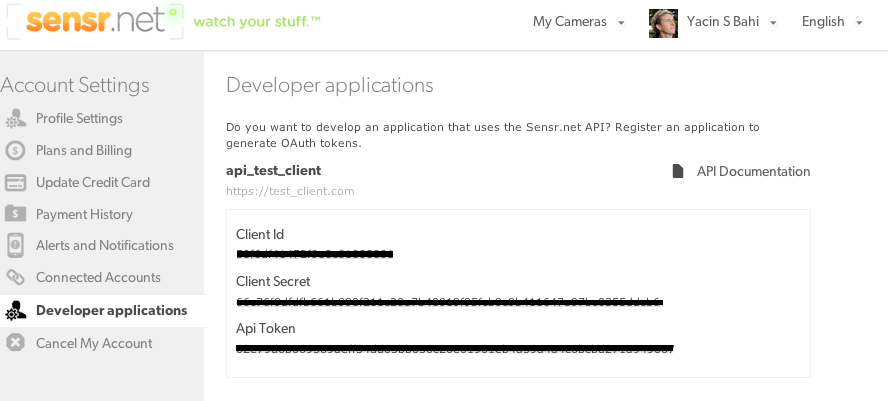
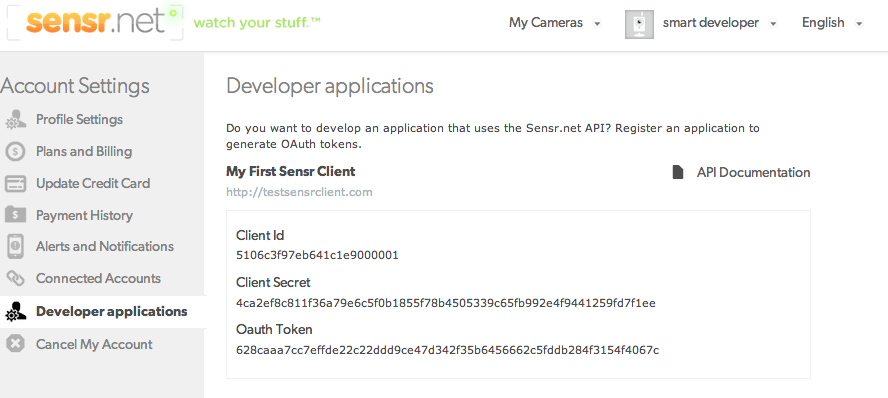
introducing the api sandbox adding curl example

diff --git a/index.html b/index.html
@@ -1,94 +1,126 @@
 <!DOCTYPE html>
 <html>
 
-  <head>
-    <meta charset='utf-8' />
-    <meta http-equiv="X-UA-Compatible" content="chrome=1" />
-    <meta name="description" content="Sensrapi-tutorials : Tutorials for sensrapi" />
+<head>
+  <meta charset='utf-8' />
+  <meta http-equiv="X-UA-Compatible" content="chrome=1" />
+  <meta name="description" content="Sensrapi-tutorials : Tutorials for sensrapi" />
 
-    <link rel="stylesheet" type="text/css" media="screen" href="stylesheets/stylesheet.css">
+  <link rel="stylesheet" type="text/css" media="screen" href="stylesheets/stylesheet.css">
 
-    <title>Sensrapi-tutorials</title>
-  </head>
+  <title>Sensrapi-tutorials</title>
+</head>
 
-  <body>
+<body>
 
-    <!-- HEADER -->
-    <div id="header_wrap" class="outer">
-        <header class="inner">
-          <a id="forkme_banner" href="https://github.com/yacc/sensrapi-tutorials">View on GitHub</a>
+  <!-- HEADER -->
+  <div id="header_wrap" class="outer">
+    <header class="inner">
+      <a id="forkme_banner" href="https://github.com/yacc/sensrapi-tutorials">View on GitHub</a>
+      <h1 id="project_title">Sensr.net Api Tutorials</h1>
+      <h2 id="project_tagline">Tutorials and Examples for Sensr.net API</h2>
+      <section id="downloads">
+        <a class="zip_download_link" href="https://github.com/yacc/sensrapi-tutorials/archive/master.zip">Download this project as a .zip file</a>
+        <a class="tar_download_link" href="https://github.com/yacc/sensrapi-tutorials/archive/master.tar.gz">Download this project as a tar.gz file</a>
+      </section>
+    </header>
+  </div>
 
-          <h1 id="project_title">Sensr.net Api Tutorials</h1>
-          <h2 id="project_tagline">Tutorials and Example for Sensr.net Ruby bindings</h2>
+  <!-- MAIN CONTENT -->
+  <div id="main_content_wrap" class="outer">
+    <section id="main_content" class="inner">
+      <h3>Welcome to the Sensr.net Apis</h3>
 
-            <section id="downloads">
-              <a class="zip_download_link" href="https://github.com/yacc/sensrapi-tutorials/archive/master.zip">Download this project as a .zip file</a>
-              <a class="tar_download_link" href="https://github.com/yacc/sensrapi-tutorials/archive/master.tar.gz">Download this project as a tar.gz file</a>
-            </section>
-        </header>
-    </div>
+      <p>The Sensr.net APIs allows you to programmatically access content from cameras on <a href="https://sensr.net">Sensr.net</a>. For example, with the API you can write a ruby program to build a time-lapse from your camera images, or extract motion trends across several weeks. The first paragraph consists of a quick start guide. The second introduces a couple of examples and tries to explain the guiding principles behind the Apis and how to better leverage them.</p>
 
-    <!-- MAIN CONTENT -->
-    <div id="main_content_wrap" class="outer">
-      <section id="main_content" class="inner">
-        <h3>Welcome to the Sensr.net Apis</h3>
+      <p>We always welcome feedback, please send your feedback regarding our Apis to developers At sensr.net</p>
 
-<p>The Sensr.net APIs allows you to programmatically access content from cameras on <a href="https://sensr.net">Sensr.net</a>. For example, with the API you can write a ruby program to build a time-lapse from your camera images, or extract motion trends across several weeks. The first paragraph consists of a quick start guide. The second introduces a couple of example scripts and tries to explain the guiding principles behind the Apis and how to better leverage them.</p>
+      <h1>Overview</h1>
+      The Sensr API uses the <a href="http://tools.ietf.org/html/draft-ietf-oauth-v2-31">OAuth 2.0 Protocol</a> for authentication and authorization. 
+      So the first thing we'll ask to do is to get an Sensr.net OAuth2 token. 
+      The Sensr.net API is restful and mostly self documented. The API cross-links with URL between different resources and the top level API entry point <em>https://api.sensr.net/u/v3/resources.json</em> always documents all resources available to the developer. The API returns JSON and partial ruby binding are provided as a gem.
 
-<p>We always welcome feedback, please send your feedback regarding our Apis to developers At sensr.net</p>
+      <h1>Quick Start Guide</h1>
+      <p>This is a 5 minute guide that should get you started and running quickly. You will need an account on <a href="https://sensr.net">Sensr.net</a> to get access to your Api keys. You will also need to have the curl command line tool installed in your environment.</p>
 
-<h3>Quick start guide</h3>
+      <h3><a name="get_oauth_token">Get an Oauth token</a></h3>  
+      <p>First, login to your sensr.net account and navigate to https://sensr.net/account/applications.
+        <img src="images/registrering_a_new_api_client.png" alt="New Api Client Registration">
 
-<p>This is a three step guide that should get you started and running (in ruby) quickly. You will need an account on <a href="https://sensr.net">Sensr.net</a> to get access to your Api keys.</p>
+        Then create a new api client, you will be asked to fill out a form with the following elements:
+        <table border="0" cellspacing="5" cellpadding="5">
+          <tr><th>Field</th><th>What is it?</th><th>Example</th></tr>
+          <tr><td>Application (client) Name</td><td>The name of you application or client</td><td>MyTestClient</td></tr>
+          <tr><td>Main URL</td><td>The link to your site</td><td>http://test_client.com</td></tr>
+          <tr><td>Callback URL</td><td>The url your users are redirected to after login in</td><td>http://test_client.com/welcome</td></tr>
+        </table>
+      </p>
+      <p>Assuming everything went well, you should now be seeing you api client ID and client secret, as well as one API token.
+        <img src="images/a_new_client_id_secret_pair.png" alt="A New Api Client Keys" >
+      </p>
 
-<h4>Install the sensr.net gem</h4>
-Run the following commands to install the sensr.net gem. Make sure you install the multi_json gem as well. 
+      <h3>Test the API with Curl</h3>
+      <p> If you have the command line tool <em>curl</em> installed, it's easy to get a first taste of the API. If you don't jump to the next section that introduces the <a href="#api_sanbox">API sandbox</a>. 
+        Grab the OAuth token from your <em>Developer Applications</em> tab. 
+        Now start a terminal and run the following command (make sure to replace the token by a valid one):
+        <pre><code>
+curl -i -X GET -H "Authorization: OAuth MY_OAUTH_TOKEN" \
+https://api.sensr.net/u/v3/cameras/owned.json
+        </code></pre>        
+      </p> 
+      <p>Make sure you use your Aouth token from your tab (not the one displayed in the example). You should get a json document in response. The API call to <code>cameras/owned.json</code> returns an array of cameras you own. Assuming you have cameras (active or inactive) on your account, you should be getting something like this:
+        <img src="images/example_cameras_owned_json.png" alt="Example cameras/owned.json" >
+      </p>
 
-<pre><code>
-  gem install sensr
-  gem install multi_json
-</code></pre>
+      <h1><a name="api_sanbox">The API sandbox</a></h1>
+      <p>
+      At sensr.net, we use the excellent API documentation tool <a href="https://github.com/wordnik/swagger-core/wiki">Swagger</a>.
+      Swagger is a specification and framework implementation for describing, producing, consuming, and visualizing RESTful web services. The easiest way to access your API sandbox, is to head over to you <a href="https://sensr.net/account/applications">developers applications</a> page. Look for a <em>API Documentation</em> link on the upper corner of the web page.   
+      <img src="images/the_api_sandbox.png" alt="API Sandbox" >
+      </p>
+      
+      <h1>Ruby Bindings</h1>
+      
+      <p>This is a three step guide that should get you started and running (in ruby) quickly. You will need an account on <a href="https://sensr.net">Sensr.net</a> to get access to your Api keys.</p>
 
-Make sure the gem is installed correctly:
-<pre><code>
-  yacin@mac temp]$ irb
-  >> require 'sensr'
-  => true
-  >> quit
-</code></pre>
+      <h4>Install the sensr.net gem</h4>
+      Run the following commands to install the official sensr.net gem. 
 
-<h4>Get your Api secret keys</h4>
+      <pre><code>
+        gem install sensr
+      </code></pre>
 
-<p>First, login to your sensr.net account and navigate to https://sensr.net/account/applications.
-Then create a new api client, you will be asked to fill out a form with the following elements <em>Display Name</em>,  <em>Link</em> and  <em>Redirect Url</em>.
-Don't pay too much attention to this now, we'll get back to it later (it's all oauth2 related).
-<img src="images/registrering_a_new_api_client.png" alt="New Api Client Registration">
-</p>
+      Make sure the gem is installed correctly:
+      <pre><code>
+        yacin@mac temp]$ irb
+        >> require 'sensr'
+        => true
+        >> quit
+      </code></pre>
 
-<p>Assuming everything went well, you should now be seeing you api client ID and client secret.
-<img src="images/a_new_client_id_secret_pair.png" alt="A New Api Client Keys" >
-</p>
+      <h4>Get your OAuth token</h4>
+      Refer to this previous section to <a href="#get_oauth_token">get an Oauth token</a>.
 
-<h4>Test your api settings</h4>
+      <h4>Test</h4>
 
-Grab the api token from the "Developer application" page and save the code below in a ruby file <em>sensr_api_test.rb</em>.
-Make sure you replace the <em>my_api_token</em> before running the script with <code>ruby sensr_api_test.rb</code>. 
+      Grab the OAuth token from the "Developer application" page and save the code below in a ruby file <em>sensr_api_test.rb</em>.
+      Make sure you replace the <em>MY_API_TOKEN</em> before running the script with <code>ruby sensr_api_test.rb</code>. 
 
-<pre><code>
-  require 'rubygems'
-  require 'sensr'
-  Sensr.oauth_token = 'my_api_token'
+      <pre><code>
+        require 'rubygems'
+        require 'sensr'
+        Sensr.oauth_token = 'MY_API_TOKEN'
 
-  cams = Sensr::Camera.owned
-  cams.each {|c| puts  "camera: " + c.attributes["id"].to_s + ' ' + c.attributes["name"] + ' ' + c.attributes["accessibility"] }</code></pre>
-  
-<h3>Examples</h3>
+        cams = Sensr::Camera.owned
+        cams.each {|c| puts  "camera: " + c.attributes["id"].to_s + ' ' + c.attributes["name"] + ' ' + c.attributes["accessibility"] }</code></pre>
 
-You will find several short ruby programs under the <a id="examples" href="https://github.com/yacc/sensrapi-tutorials/tree/master/examples">examples directory</a>.
-    
-  
-  
-  
+        <h3>Examples</h3>
+
+        You will find several short ruby programs under the <a id="examples" href="https://github.com/yacc/sensrapi-tutorials/tree/master/examples">examples directory</a>.
+
+
+
+
       </section>
     </div>
 
@@ -100,7 +132,7 @@ You will find several short ruby programs under the <a id="examples" href="https
       </footer>
     </div>
 
-    
+
 
   </body>
-</html>
+  </html>
